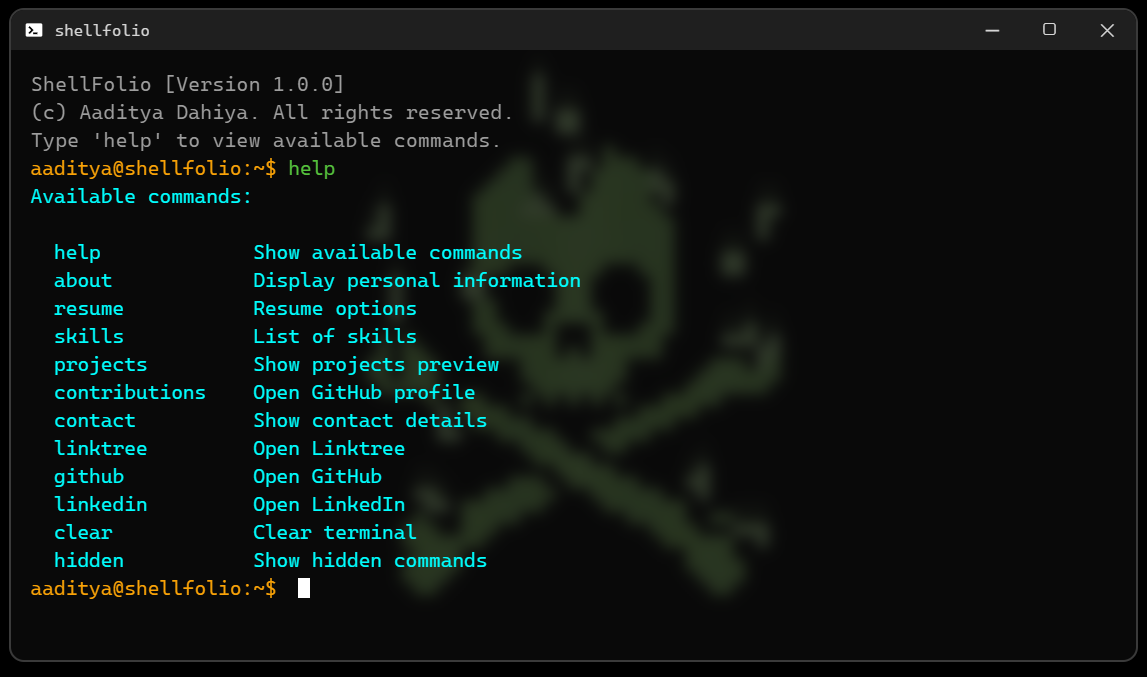
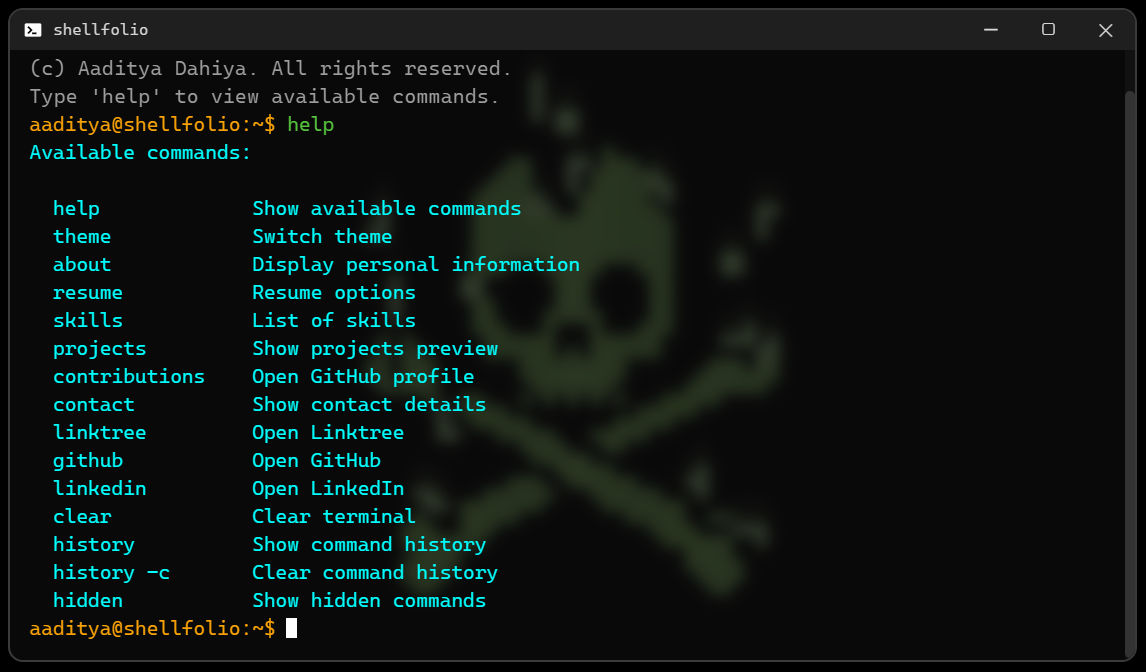
feat: implement context-aware CLI, fix validation bugs, and enhance light theme UI

Changed region(s): [[0.0, 0.0938, 1.0, 1.0], [0.0, 0.0312, 0.1222, 0.0625]]

diff --git a/assets/index.js b/assets/index.js
@@ -4,7 +4,7 @@ const cursor = document.querySelector(".cursor");
 const wrapper = document.querySelector(".input_wrapper");
 const ghost = document.querySelector(".ghost_text");
 
-// Hidden span for measuring text width
+// Hidden Span for measuring text width
 const measureSpan = document.createElement("span");
 measureSpan.style.visibility = "hidden";
 measureSpan.style.position = "absolute";
@@ -28,11 +28,11 @@ function updateCursorPosition() {
   const textBeforeCaret = input.value.substring(0, input.selectionStart);
 
   measureSpan.style.font = window.getComputedStyle(input).font;
-  measureSpan.textContent = textBeforeCaret || " ";
+  measureSpan.textContent = textBeforeCaret || "";
 
   const textWidth = measureSpan.getBoundingClientRect().width;
 
-  // Dynamic cursor width (match one character width)
+  // Dynamic Cursor Width (match one character width)
   measureSpan.textContent = "M";
   const charWidth = measureSpan.getBoundingClientRect().width;
 
@@ -52,7 +52,15 @@ function updateTypingState() {
 
   const commandList = Object.keys(commands);
 
-  const hasMatch = commandList.some((cmd) => cmd.startsWith(value));
+  const base = value.split(" ")[0];
+
+  let hasMatch = commandList.some((cmd) => cmd.startsWith(base));
+
+  if (!hasMatch && currentContext && contextOptions[currentContext]) {
+    hasMatch = contextOptions[currentContext].some((opt) =>
+      opt.startsWith(base),
+    );
+  }
 
   if (hasMatch) {
     wrapper.classList.add("typing-valid");
@@ -65,6 +73,7 @@ function updateTypingState() {
 let commandHistory = [];
 let historyIndex = -1;
 let tempInput = "";
+let currentContext = null;
 
 // Tab Counter
 let tabPressCount = 0;
@@ -121,7 +130,7 @@ input.addEventListener("keydown", function (e) {
     }
   }
 
-  // Enter Key - Execute Command
+  // Enter Key -> Execute Command
   else if (e.key === "Enter") {
     e.preventDefault();
 
@@ -137,7 +146,15 @@ input.addEventListener("keydown", function (e) {
 
     historyIndex = commandHistory.length;
 
-    printCommand(command, commands.hasOwnProperty(lowerCommand));
+    const base = lowerCommand.split(" ")[0];
+
+    let isValid = commands.hasOwnProperty(base);
+
+    if (!isValid && currentContext && contextOptions[currentContext]) {
+      isValid = contextOptions[currentContext].includes(lowerCommand);
+    }
+
+    printCommand(command, isValid);
     runCommand(command);
 
     input.value = "";
@@ -147,7 +164,7 @@ input.addEventListener("keydown", function (e) {
     updateCursorPosition();
   }
 
-  // Arrow Up - Command History Navigation
+  // Arrow Up -> Command History Navigation
   else if (e.key === "ArrowUp") {
     e.preventDefault();
 
@@ -182,7 +199,7 @@ input.addEventListener("keydown", function (e) {
     updateCursorPosition();
   }
 
-  // Arrow Down - Command History Navigation
+  // Arrow Down -> Command History Navigation
   else if (e.key === "ArrowDown") {
     e.preventDefault();
 
@@ -203,7 +220,7 @@ input.addEventListener("keydown", function (e) {
       }
     }
 
-    // If no valid command found ahead
+    // If No Valid Command found ahead
     historyIndex = commandHistory.length;
     input.value = tempInput;
 
@@ -328,32 +345,69 @@ function getClosestCommand(input) {
     }
   });
 
-  // Only suggest if it's reasonably close
   return minDistance <= 2 ? closest : null;
 }
 
 // Command Execution
 function runCommand(cmd) {
-  const command = cmd.toLowerCase();
+  const command = cmd.toLowerCase().trim();
 
-  if (commands.hasOwnProperty(command)) {
-    commands[command]();
-  } else {
-    printOutput(`Command not found: ${cmd}`, "error-line");
-
-    const suggestion = getClosestCommand(command);
-
-    if (suggestion) {
-      printOutput(`Did you mean '${suggestion}'?`, "error-line");
-    }
-
-    printOutput(`Type 'help' to see available commands`, "error-line");
+  if (commands[command]) {
+    commands[command](command);
+    return;
   }
+
+  const base = command.split(" ")[0];
+
+  if (commands[base]) {
+    commands[base](command);
+    return;
+  }
+
+  if (currentContext && commands[currentContext]) {
+    commands[currentContext](currentContext + " " + command);
+    return;
+  }
+
+  printOutput(`Command not found: ${cmd}`, "error-line");
+
+  const suggestion = getClosestCommand(command);
+  if (suggestion) {
+    printOutput(`Did you mean '${suggestion}'?`, "error-line");
+  }
+
+  printOutput(`Type 'help' to see available commands`, "error-line");
 }
 
 // Commands
 const commands = {
   help: () => printHelp(),
+
+  theme: (cmd) => {
+    const args = cmd.split(" ").slice(1).join(" ").trim();
+
+    if (!args) {
+      currentContext = "theme";
+
+      printOutput("Theme:");
+      printOutput("light");
+      printOutput("dark");
+      printOutput("Type 'exit' to leave this mode");
+      return;
+    }
+
+    currentContext = null;
+
+    if (args.includes("light")) {
+      document.body.classList.add("light-mode");
+      printOutput("Switched to Light Mode");
+    } else if (args.includes("dark")) {
+      document.body.classList.remove("light-mode");
+      printOutput("Switched to Dark Mode");
+    } else {
+      printOutput("Invalid theme option");
+    }
+  },
 
   about: () => {
     printOutput("Hi, I'm Aaditya Dahiya");
@@ -393,9 +447,39 @@ const commands = {
 
   projects: () => {
     printOutput("Projects:");
-    printOutput("1. Penny AI - Smart Finance Tracker");
+    printOutput("1. Finova - Personal Finance Assistant");
     printOutput("2. ShellFolio");
     printOutput("3. Tempora");
+    printOutput("Type 'open' to open project");
+  },
+
+  open: (cmd) => {
+    const args = cmd.split(" ").slice(1).join(" ").trim();
+
+    if (!args) {
+      currentContext = "open";
+
+      printOutput("Available projects:");
+      printOutput("finova");
+      printOutput("tempora");
+      printOutput("shellfolio");
+      printOutput("Type 'exit' to leave this mode");
+      return;
+    }
+
+    currentContext = null;
+
+    if (args.includes("finova")) {
+      printOutput("Opening Finova...");
+      window.open("https://your-finova-link.com", "_blank");
+    } else if (args.includes("tempora")) {
+      printOutput("Opening Tempora...");
+      window.open("https://your-tempora-link.com", "_blank");
+    } else if (args.includes("shellfolio")) {
+      printOutput("You're already inside ShellFolio");
+    } else {
+      printOutput("Project not found");
+    }
   },
 
   contributions: () => {
@@ -423,19 +507,6 @@ const commands = {
     window.open("https://www.linkedin.com/in/iamaadityadahiya", "_blank");
   },
 
-  clear: () => {
-    output.innerHTML = "";
-  },
-
-  hidden: () => {
-    printOutput("Hidden commands:");
-    printOutput("");
-    printOutput("whoami");
-    printOutput("ascii");
-    printOutput("history");
-    printOutput("history -c");
-  },
-
   history: () => {
     if (commandHistory.length === 0) {
       printOutput("No commands in history.");
@@ -449,7 +520,7 @@ const commands = {
 
   "history -c": () => {
     if (commandHistory.length === 0) {
-      printOutput("History is already empty.");
+      printOutput("History is already empty.", "error-line");
       return;
     }
 
@@ -459,8 +530,34 @@ const commands = {
     printOutput("Command history cleared.");
   },
 
+  clear: () => {
+    output.innerHTML = "";
+  },
+
+  exit: () => {
+    if (!currentContext) {
+      printOutput("No active mode to exit", "error-line");
+      return;
+    }
+
+    printOutput(`Exited '${currentContext}' mode`);
+    currentContext = null;
+  },
+
+  hidden: () => {
+    printOutput("Hidden commands:");
+    printOutput("");
+    printOutput("sudo");
+    printOutput("whoami");
+    printOutput("ascii");
+  },
+
   whoami: () => {
     printOutput("Aaditya Dahiya");
+  },
+
+  sudo: () => {
+    printOutput("Permission Denied: You are not ROOT", "error-line");
   },
 
   ascii: () => {
@@ -483,9 +580,15 @@ const commands = {
   },
 };
 
+const contextOptions = {
+  theme: ["light", "dark"],
+  open: ["finova", "tempora", "shellfolio"],
+};
+
 // Help Text
 const helpCommands = [
   ["help", "Show available commands"],
+  ["theme", "Switch theme"],
   ["about", "Display personal information"],
   ["resume", "Resume options"],
   ["skills", "List of skills"],
@@ -496,6 +599,8 @@ const helpCommands = [
   ["github", "Open GitHub"],
   ["linkedin", "Open LinkedIn"],
   ["clear", "Clear terminal"],
+  ["history", "Show command history"],
+  ["history -c", "Clear command history"],
   ["hidden", "Show hidden commands"],
 ];
 

diff --git a/assets/index.css b/assets/index.css
@@ -158,6 +158,10 @@ input {
   color: aqua;
 }
 
+.option-line {
+  color: #ffffff;
+}
+
 /* Typing state */
 .typing-valid {
   color: #55c33c;
@@ -186,6 +190,56 @@ input {
   height: 1em;
   background: currentColor;
   animation: blink 1s step-end infinite;
+}
+
+.light-mode {
+  background: #e6e9ef !important;
+}
+
+.light-mode .title_bar {
+  background: #1f1f1f;
+  color: #d6d6d6;
+}
+
+.light-mode #terminal_window {
+  background: rgba(255, 255, 255, 0.85);
+  color: #111;
+  border: 2px solid #ccc;
+  box-shadow: 0 8px 25px rgba(0, 0, 0, 0.15);
+  backdrop-filter: blur(4px);
+}
+
+.light-mode .prompt,
+.light-mode .prompt-text {
+  color: #ff8800;
+}
+
+.light-mode .cursor {
+  background: black;
+}
+
+.light-mode .output-line {
+  color: #0077cc;
+}
+
+.light-mode .system-line {
+  color: #666;
+}
+
+.light-mode .error-line {
+  color: #cc3333;
+}
+
+.light-mode .typing-valid {
+  color: #2e7d32; /* dark green */
+}
+
+.light-mode .typing-invalid {
+  color: #d32f2f; /* red */
+}
+
+.light-mode .ghost_text {
+  color: #aaa;
 }
 
 @keyframes blink {

diff --git a/README.md b/README.md
@@ -83,6 +83,7 @@ This keeps the system modular and scalable.
 | Command         | Description                     |
 | --------------- | ------------------------------- |
 | `help`          | Show available commands         |
+| `theme`         | Switch theme (light/dark)       |
 | `about`         | Display personal information    |
 | `resume`        | Resume options (view/download)  |
 | `skills`        | List of skills                  |
@@ -93,6 +94,8 @@ This keeps the system modular and scalable.
 | `github`        | Open GitHub profile             |
 | `linkedin`      | Open LinkedIn profile           |
 | `clear`         | Clear terminal                  |
+| `history`       | Show command history            |
+| `history -c`    | Clear command history           |
 | `hidden`        | Show hidden/easter egg commands |
 
 ## Example Interaction